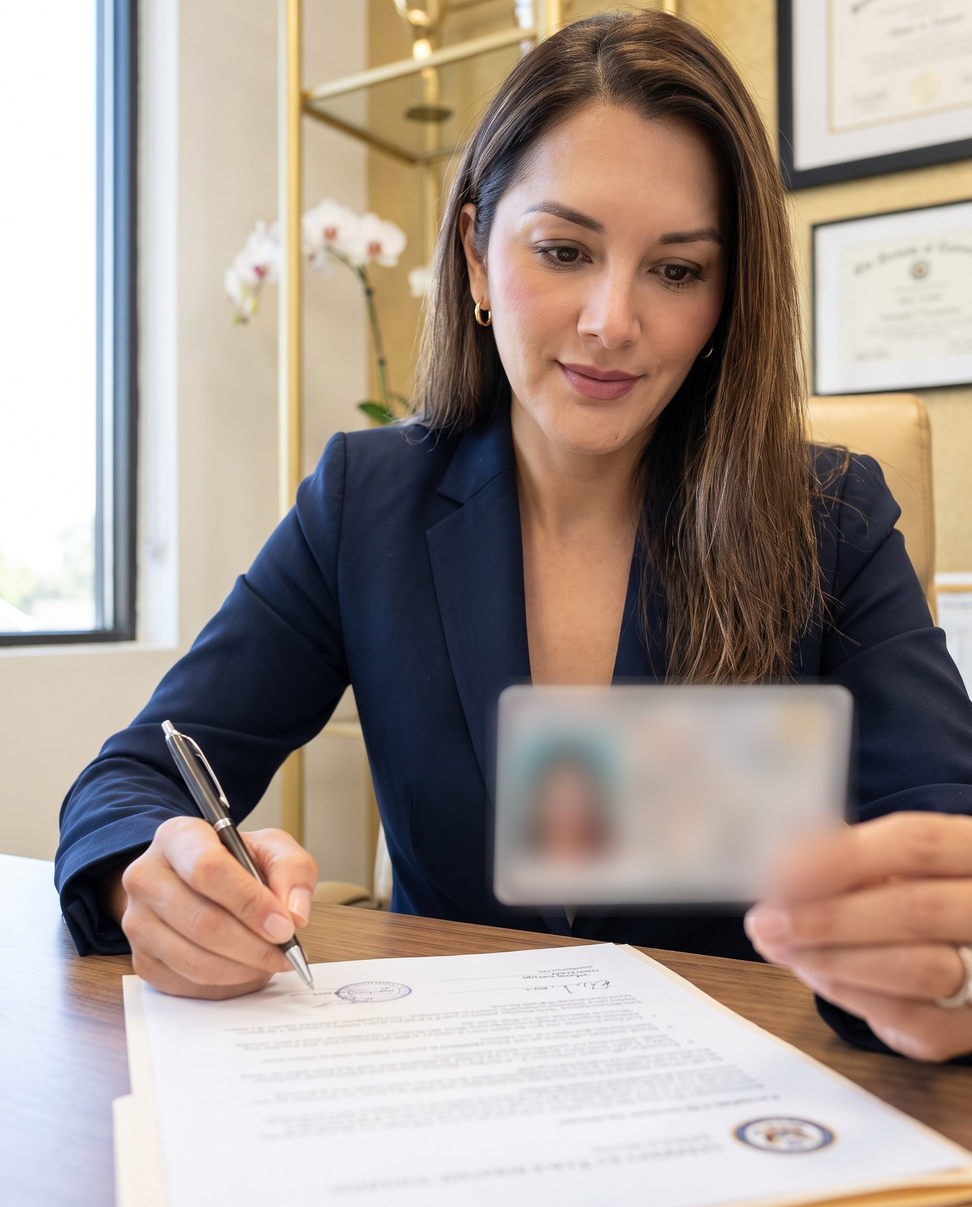
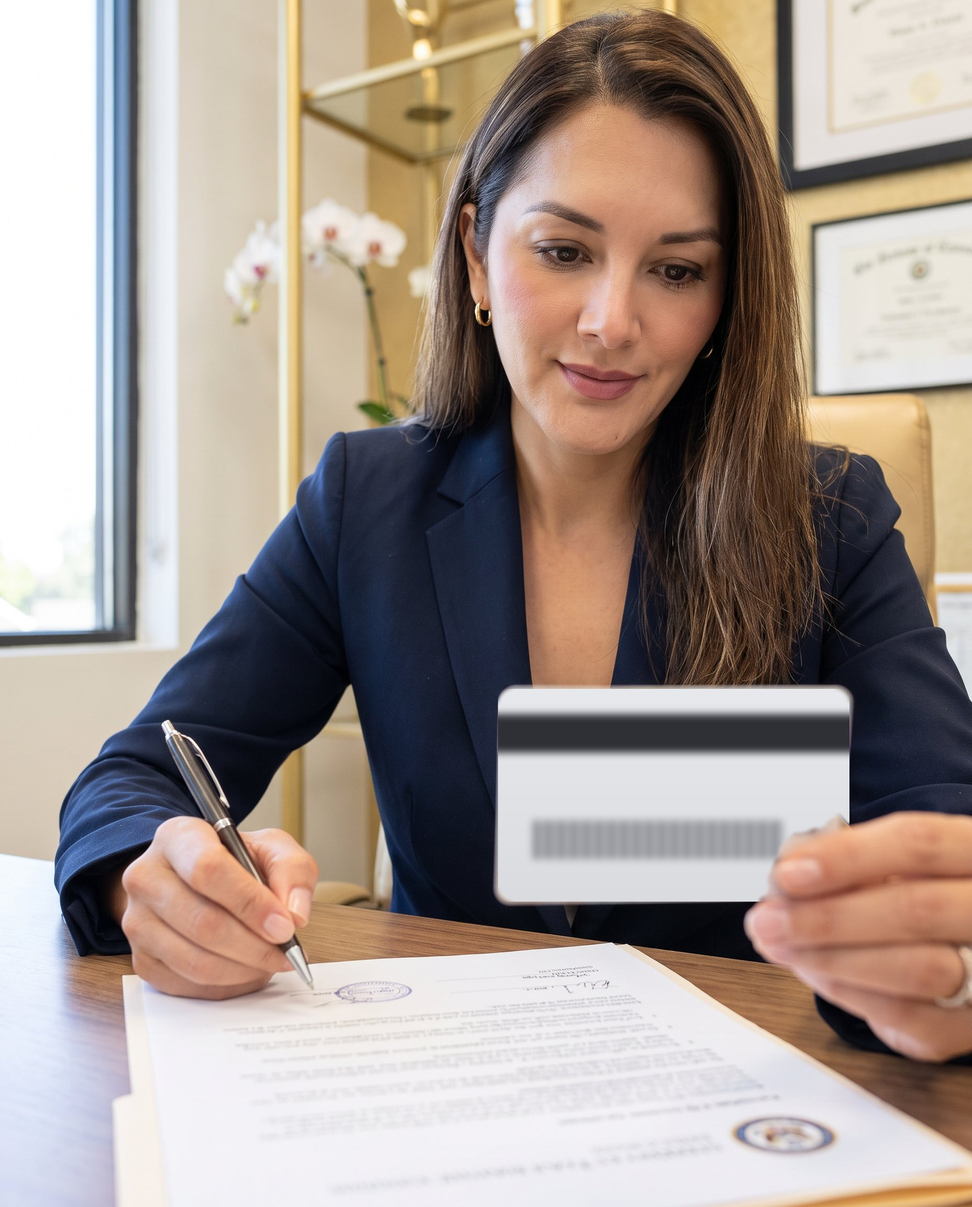
fix(sitio): portada a dos columnas con la foto completa y licencia corregida
Claude-Session: https://claude.ai/code/session_01R6p1X6L4PjT1LsCBYntQgD

Changed region(s): [[0.5, 0.5625, 0.9062, 0.7812]]

diff --git a/sites/marie-fernandez/index.html b/sites/marie-fernandez/index.html
@@ -46,22 +46,18 @@ nav a:hover{color:#fff}
 @media(max-width:960px){nav .nl{display:none}}
 
 /* hero */
-.hero{position:relative;min-height:100vh;min-height:100svh;display:flex;align-items:center;color:#fff;background:var(--navy) url(visita.jpg) center 30%/cover no-repeat}
-.hero:before{content:"";position:absolute;inset:0;background:linear-gradient(90deg,rgba(11,22,40,.94) 0%,rgba(11,22,40,.78) 45%,rgba(11,22,40,.35) 100%)}
-.hero .wrap{position:relative;z-index:1;display:grid;grid-template-columns:1.25fr .75fr;gap:48px;align-items:end;padding-top:140px;padding-bottom:90px;width:100%}
-.hero h1{color:#fff;font-size:clamp(48px,7vw,96px);font-weight:500;letter-spacing:-.01em}
+.hero{position:relative;display:grid;grid-template-columns:1fr 1fr;min-height:100vh;min-height:100svh;background:var(--navy);color:#fff}
+.hero .txt{display:flex;flex-direction:column;justify-content:center;padding:150px 64px 80px max(24px,calc((100vw - 1200px)/2 + 24px))}
+.hero .pic{position:relative;overflow:hidden}
+.hero .pic img{position:absolute;inset:0;width:100%;height:100%;object-fit:cover;object-position:62% center}
+.hero .pic:after{content:"";position:absolute;inset:0;box-shadow:inset 0 0 0 1px rgba(198,164,106,.25)}
+.hero h1{color:#fff;font-size:clamp(44px,5.4vw,82px);font-weight:500;letter-spacing:-.01em}
 .hero h1 i{font-style:italic;color:var(--gold-2)}
-.hero .lead{font-size:clamp(17px,1.6vw,20px);font-weight:300;color:#d8deea;max-width:560px}
-.hero .cta{display:flex;flex-wrap:wrap;gap:14px;margin-top:36px}
-.panel{background:rgba(11,22,40,.72);backdrop-filter:blur(10px);border:1px solid rgba(198,164,106,.35);padding:30px}
-.panel .eyebrow{color:var(--gold-2)}
-.panel b{display:block;font-family:"Cormorant Garamond",serif;font-size:64px;font-weight:600;line-height:1;margin:10px 0 4px;color:#fff}
-.panel p{color:#cfd6e3;font-size:15px}
-.panel ul{list-style:none;margin-top:20px;border-top:1px solid rgba(255,255,255,.14)}
-.panel li{display:flex;gap:12px;align-items:center;padding:12px 0;border-bottom:1px solid rgba(255,255,255,.1);font-size:14.5px;color:#e6eaf1}
-.panel li svg{width:16px;height:16px;stroke:var(--gold);fill:none;stroke-width:2;flex:0 0 16px}
-.scroll{position:absolute;left:50%;bottom:24px;transform:translateX(-50%);z-index:1;font-size:11px;letter-spacing:.3em;text-transform:uppercase;color:#aab4c6}
-@media(max-width:900px){.hero .wrap{grid-template-columns:1fr;padding-top:120px;padding-bottom:70px}.hero:before{background:linear-gradient(180deg,rgba(11,22,40,.85),rgba(11,22,40,.92))}.scroll{display:none}}
+.hero .lead{font-size:clamp(17px,1.4vw,19px);font-weight:300;color:#d8deea;max-width:520px}
+.hero .cta{display:flex;flex-wrap:wrap;gap:14px;margin-top:34px}
+.hero .facts{display:flex;flex-wrap:wrap;gap:10px 26px;margin-top:38px;padding-top:24px;border-top:1px solid rgba(198,164,106,.3);font-size:14px;color:#d8deea}
+.hero .facts b{color:var(--gold-2);font-weight:600}
+@media(max-width:900px){.hero{grid-template-columns:1fr;min-height:0}.hero .pic{order:-1;height:62vh;min-height:380px}.hero .txt{padding:44px 22px 56px}}
 
 /* stats */
 .stats{background:var(--navy);color:#fff;border-top:1px solid rgba(198,164,106,.25)}
@@ -164,30 +160,19 @@ footer .wrap{display:flex;justify-content:space-between;gap:16px;flex-wrap:wrap}
 </header>
 
 <main id="inicio">
-  <section class="hero" style="padding:0">
-    <div class="wrap">
-      <div>
-        <div class="eyebrow">Florida Notary Public · Miami</div>
-        <div class="rule"></div>
-        <h1><span data-es>Sus documentos,<br><i>en buenas manos.</i></span><span data-en>Your documents,<br><i>in good hands.</i></span></h1>
-        <p class="lead" style="margin-top:26px"><span data-es>Notarización confiable, organizada y discreta para familias y negocios de Miami. En español y en inglés, en mi oficina o donde usted lo necesite.</span><span data-en>Reliable, organized and discreet notarization for Miami families and businesses. In English and Spanish, at my office or wherever you need it.</span></p>
-        <div class="cta">
-          <a class="btn gold" href="tel:+17862036121"><svg viewBox="0 0 24 24" fill="none" stroke="currentColor" stroke-width="2"><path d="M5 4h4l2 5-2.5 1.5a11 11 0 0 0 5 5L15 13l5 2v4a2 2 0 0 1-2 2A16 16 0 0 1 3 6a2 2 0 0 1 2-2"/></svg><span data-es>Agendar cita</span><span data-en>Book now</span></a>
-          <a class="btn ghost" href="#servicios"><span data-es>Ver servicios</span><span data-en>See services</span></a>
-        </div>
+  <section class="hero">
+    <div class="txt">
+      <div class="eyebrow">Florida Notary Public · Miami</div>
+      <div class="rule"></div>
+      <h1><span data-es>Sus documentos,<br><i>en buenas manos.</i></span><span data-en>Your documents,<br><i>in good hands.</i></span></h1>
+      <p class="lead" style="margin-top:24px"><span data-es>Notarización confiable, organizada y discreta para familias y negocios de Miami. En español y en inglés, en mi oficina o donde usted lo necesite.</span><span data-en>Reliable, organized and discreet notarization for Miami families and businesses. In English and Spanish, at my office or wherever you need it.</span></p>
+      <div class="cta">
+        <a class="btn gold" href="tel:+17862036121"><svg viewBox="0 0 24 24" fill="none" stroke="currentColor" stroke-width="2"><path d="M5 4h4l2 5-2.5 1.5a11 11 0 0 0 5 5L15 13l5 2v4a2 2 0 0 1-2 2A16 16 0 0 1 3 6a2 2 0 0 1 2-2"/></svg><span data-es>Agendar cita</span><span data-en>Book now</span></a>
+        <a class="btn ghost" href="#servicios"><span data-es>Ver servicios</span><span data-en>See services</span></a>
       </div>
-      <aside class="panel">
-        <div class="eyebrow"><span data-es>Disponibilidad</span><span data-en>Availability</span></div>
-        <b>24/7</b>
-        <p><span data-es>Con cita previa y confirmación.</span><span data-en>By appointment and confirmation.</span></p>
-        <ul>
-          <li><svg viewBox="0 0 24 24"><path d="M20 6 9 17l-5-5"/></svg><span data-es>Español e inglés</span><span data-en>English &amp; Spanish</span></li>
-          <li><svg viewBox="0 0 24 24"><path d="M20 6 9 17l-5-5"/></svg><span data-es>Servicio móvil en Miami</span><span data-en>Mobile service in Miami</span></li>
-          <li><svg viewBox="0 0 24 24"><path d="M20 6 9 17l-5-5"/></svg><span>786 203 6121</span></li>
-        </ul>
-      </aside>
+      <div class="facts"><span><b>24/7</b> <span data-es>con cita previa</span><span data-en>by appointment</span></span><span><b>ES · EN</b></span><span><b><span data-es>Móvil</span><span data-en>Mobile</span></b> <span data-es>en Miami</span><span data-en>in Miami</span></span><span><b>786 203 6121</b></span></div>
     </div>
-    <div class="scroll"><span data-es>Desliza</span><span data-en>Scroll</span></div>
+    <div class="pic"><img src="visita.jpg" alt="Marie Fernandez atendiendo a una familia en una visita móvil" fetchpriority="high"></div>
   </section>
 
   <div class="stats">
